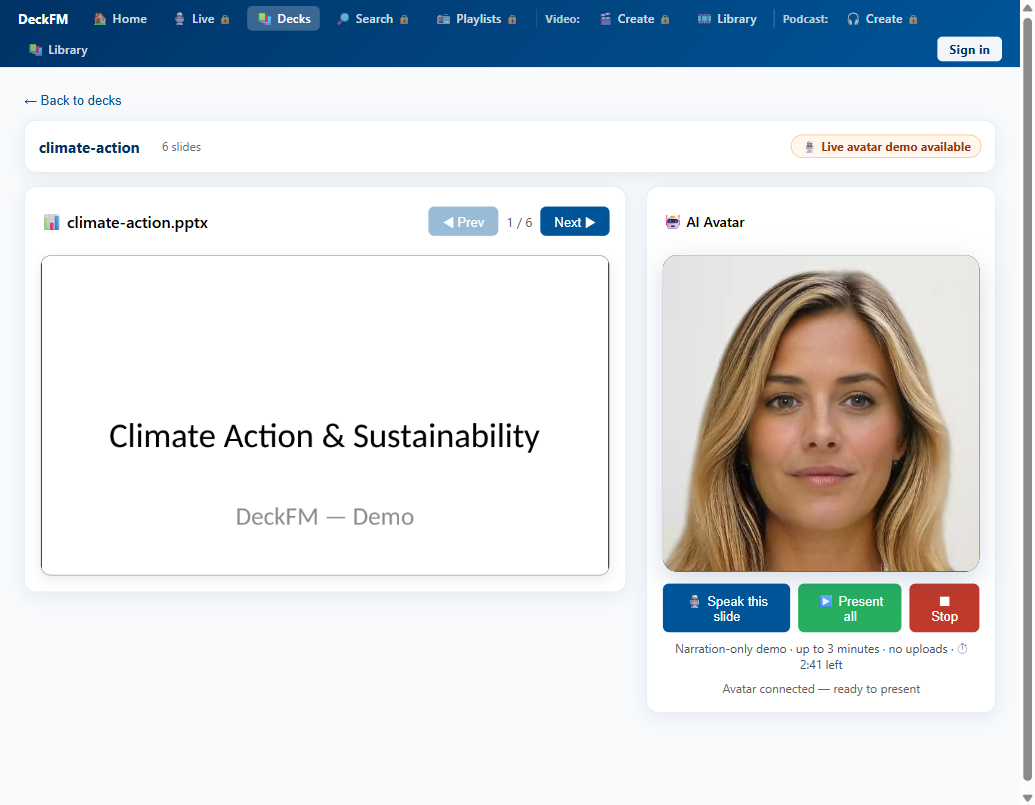
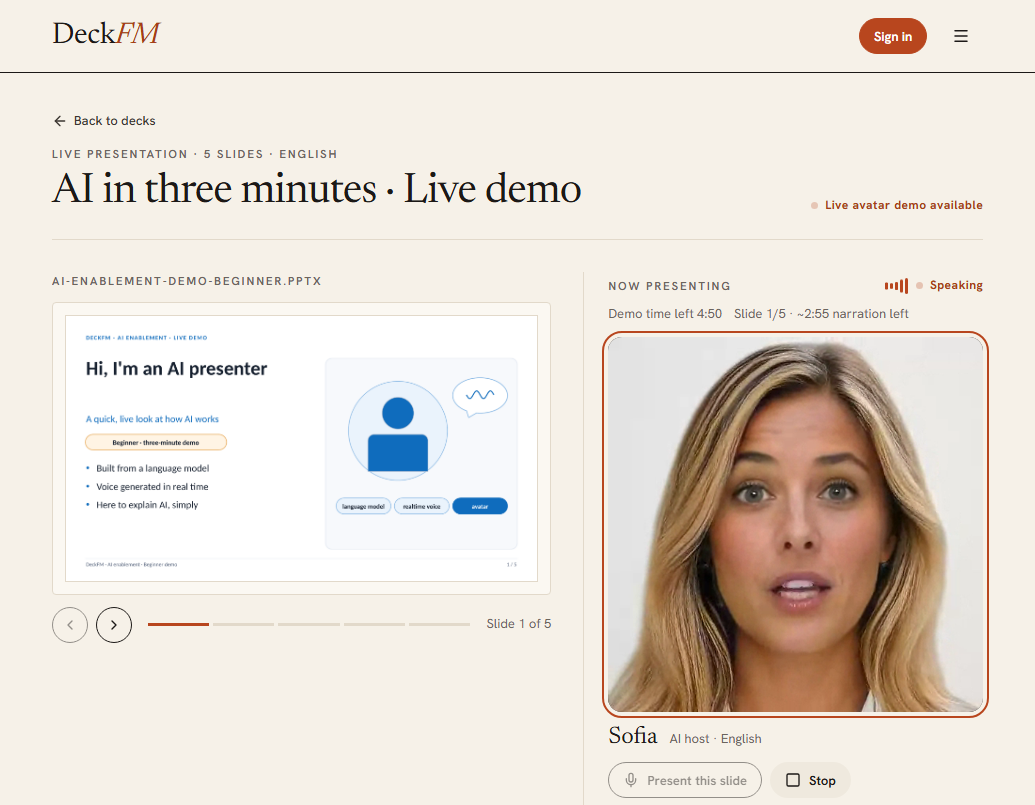
docs(screenshots): recapture README screenshots from production AI content
Anonymous public view (/api/me intercepted in the capture browser; deck
detail reduced to the public DTO), same filenames and sizes. Podcast and
video frames come from the published AI library MP4s; alt texts updated.

Copilot-Session: 9d85d55c-b7a4-4682-a057-b94208dcb06e

diff --git a/README.md b/README.md
@@ -53,15 +53,15 @@ Every nav link has a hover tooltip; links that require sign-in show a 🔒 for a
 
 **Live avatar demo** — anyone can try it on the decks marked *Live demo* (narration-only, time-boxed, no sign-in):
 
-![Live avatar demo: a photo avatar presents the current slide, with Speak, Present all and Stop controls and a countdown](docs/screenshots/live-demo.png)
+![Live avatar demo: Sofia, a photo avatar, presents the current slide, with a demo countdown, Present this slide and Stop controls](docs/screenshots/live-demo.png)
 
 | Home | Narrated slide video | Two-avatar podcast |
 |---|---|---|
-| ![DeckFM home page with the tagline and a "Try the live avatar demo" button](docs/screenshots/home.png) | ![Narrated video frame: slide with a photo avatar narrating and burned-in subtitles](docs/screenshots/video-frame.png) | ![Podcast frame: slide above two photo-avatar hosts with subtitles](docs/screenshots/podcast-frame.png) |
+| ![DeckFM home page with the tagline, the hosts Sofia and Lucas and a "Watch the live demo" button](docs/screenshots/home.png) | ![Narrated video frame: slide with a photo avatar narrating and burned-in subtitles](docs/screenshots/video-frame.png) | ![Podcast frame: two photo-avatar hosts and subtitles in a top band above the slide](docs/screenshots/podcast-frame.png) |
 
 | Published video library | Decks | Slide viewer |
 |---|---|---|
-| ![Video library with published videos](docs/screenshots/video-library.png) | ![Decks catalog with Live demo badges](docs/screenshots/decks.png) | ![Read-only slide viewer](docs/screenshots/slide-viewer.png) |
+| ![Video library with published videos](docs/screenshots/video-library.png) | ![Decks catalog with the live avatar demo banner and the published AI decks](docs/screenshots/decks.png) | ![Read-only slide viewer](docs/screenshots/slide-viewer.png) |
 
 The avatars shown are custom **photo avatars** (one portrait each, animated by Azure AI Speech). Out of the box the app uses the stock Azure avatars (Lisa, Harry, …); see [Custom photo avatars](#custom-photo-avatars-optional).
 
